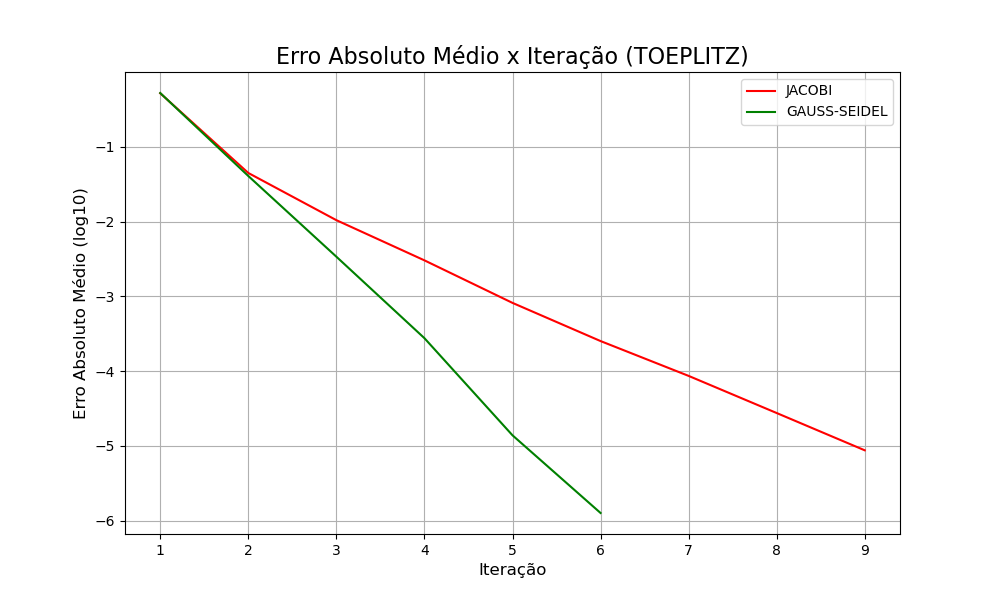
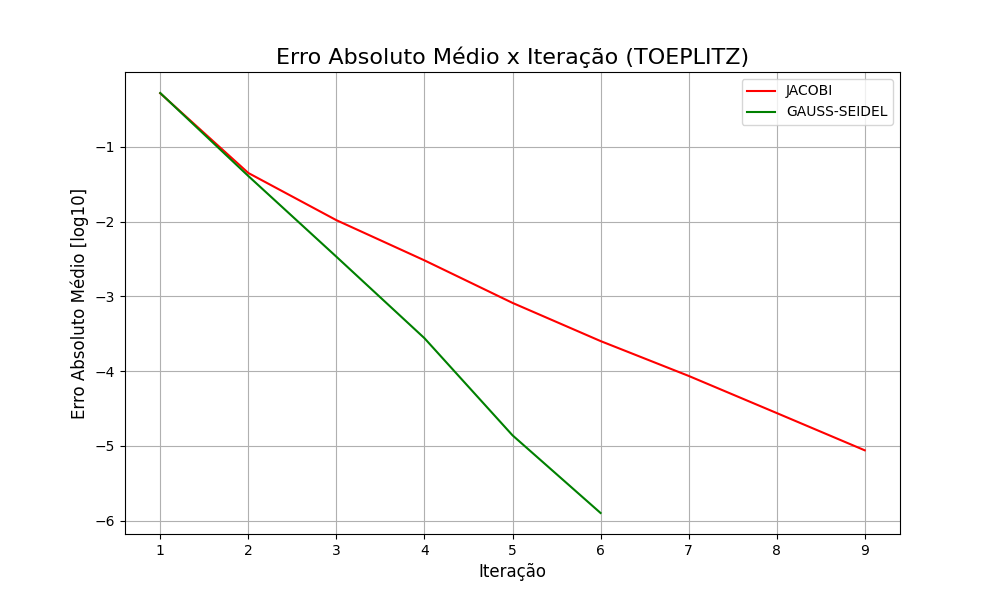
new figures

diff --git a/main.py b/main.py
@@ -116,7 +116,7 @@ for m in _RESULT:
                     colors = color_list,
                     y_label = 'Erro Absoluto Médio',
                     title = f'Erro Absoluto Médio ({m})' )
-    f.savefig( f'./figures/2_erro_absoluto_medio{m}.png' )
+    f.savefig( f'./figures/2_erro_absoluto_medio_{m}.png' )
 
     data = [ str( "{:.32f}".format( error_list[ i ] ) ) + f'\t{label_list[ i ]}\n' for i in range( len( error_list ) ) ]
     write_file( data = data, path = f'./tables/2_erro_absoluto_medio_{m}.txt' )
@@ -164,7 +164,7 @@ for m in _RESULT:
                          y_list = y_list,
                          labels = label_list,
                          colors = color_list,
-                         y_label = 'Erro Absoluto Médio (log10)',
+                         y_label = 'Erro Absoluto Médio [log10]',
                          x_label = 'Iteração',
                          title = f'Erro Absoluto Médio x Iteração ({m})' )
         f.savefig( f'./figures/3_erro_absoluto_medio_iteracao_jacobi_gauss_seidel_{m}.png' )

diff --git a/error.py b/error.py
@@ -13,4 +13,4 @@ def relative_error( ):
     pass
 
 def mean_relative_error( ):
-    return
+    pass
